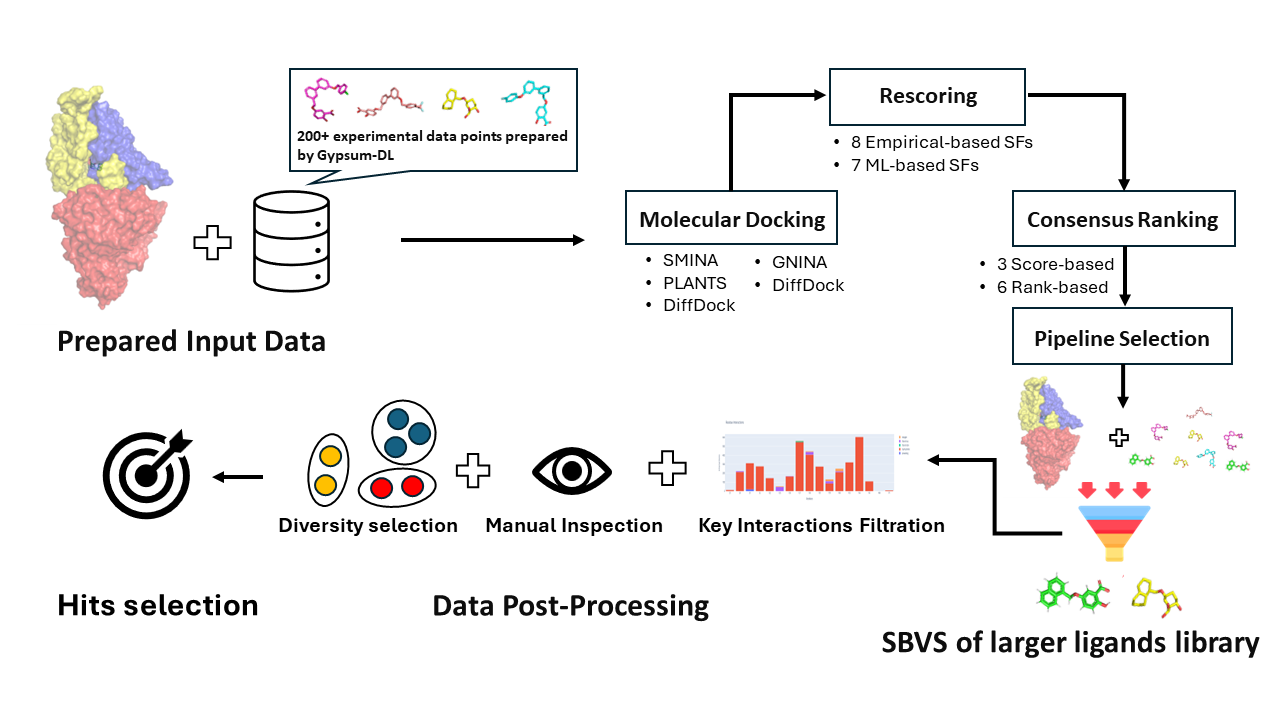
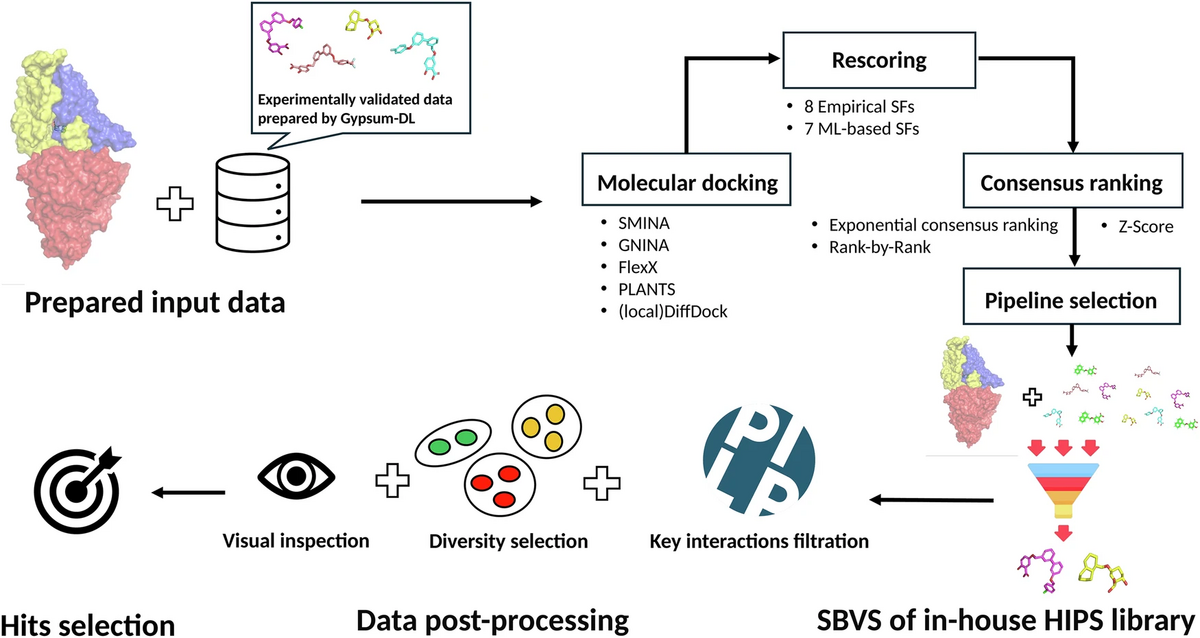
modify hamza's last name and MolDockLab project/paper (#244)

diff --git a/layouts/partials/person.html b/layouts/partials/person.html
@@ -1,5 +1,5 @@
 <article>
-    <h3 id="{{.key}}"><strong>{{ with .prefix }}{{- . }} {{ end }}{{ .name }}</strong></h3>
+    <h3 id="{{.key}}">{{ range .aka }}<span id="{{ . }}"></span>{{ end }}<strong>{{ with .prefix }}{{- . }} {{ end }}{{ or .card_name .name }}</strong></h3>
     {{ if .image }}
     <span class="image right"><img src="{{ .image }}" /></span>
     {{ end }}

diff --git a/content/projects/moldocklab.md b/content/projects/moldocklab.md
@@ -8,14 +8,15 @@ external_resources:
 - name: MolDockLab Repository
   link: https://github.com/volkamerlab/MolDockLab
   icon: github
+publications:
+- agha_npjdrugdiscov_2026
 people:
-- key: hamza.ibrahim
+- key: hamza.agha
 - key: michael.backenkoehler 
 - key: lacour.antoine
 - key: andrea.volkamer
 collaborators:
-- name: Ioulia Antonia Exapicheidou
-  link: https://www.helmholtz-hips.de/en/research/teams/team/drug-design-and-optimisation/
+- name: Youssef Ibrahim
   more: HIPS
 - name: Mostafa Hamed
   link: https://www.helmholtz-hips.de/en/research/teams/team/drug-design-and-optimisation/
@@ -28,8 +29,11 @@ collaborators:
 Finding the optimal docking pipeline for consensus structure-based virtual screening (SBVS) and the diversity nature of protein are challenging. To address this challenge, we introduce MolDockLab, a novel framework designed to identify the most convenient combination of docking tools, scoring functions, and consensus ranking methods tailored for a target of interest. 
 
 <!--more-->
-Consensus structure-based virtual screening (SBVS) has demonstrated high performance in hit identification, as shown in DockM8 [[1]](https://chemrxiv.org/engage/chemrxiv/article-details/669e53ee01103d79c5324046). By leveraging a small data set of approximately 200 molecules, MolDockLab offers a fully automated pipeline. It identifies the most efficient combination of docking tools, scoring functions, and ranking methods for consensus SBVS, which is then applied to larger datasets. The top compounds are further processed to select the most promising candidates, as illustrated in Figure 1.
+Consensus SBVS has shown strong hit-identification performance, as demonstrated by DockM8 [[1]](https://chemrxiv.org/engage/chemrxiv/article-details/669e53ee01103d79c5324046). Building on this idea, MolDockLab systematically explores combinations of five docking engines, 15 scoring functions, and three consensus ranking strategies. Using a calibration set of roughly 200 compounds with known bioactivity, it selects the workflow whose scores correlate best with experiment and applies it to the much larger screening library. Final hit selection from the top 1% integrates protein-ligand interaction profiler (PLIP)-derived interaction fingerprints, structural-diversity assessment, and expert visual inspection, as illustrated in Figure 1.
 
-Energy-coupling factor transporters (ECF-T) are novel and promising antimicrobial targets that mediate micronutrient transport into the cell [[2]](https://doi.org/10.1039/D3CC04738E). As a case study, MolDockLab was deployed for ECF-T hit identification, leading to the discovery of two promising hits in in vitro assays. Testing similar compounds resulted in the identification of nine additional hits, demonstrating the efficacy of MolDockLab.
+In a retrospective evaluation on the epidermal growth factor receptor (EGFR), the selected pipeline reached a Spearman correlation of 0.36 and an enrichment factor at 10% of 1.57, consistent with its calibration performance. It was then applied prospectively to the energy-coupling factor transporters (ECF-T) [[2]](https://doi.org/10.1039/D3CC04738E), a challenging transmembrane antimicrobial target with a cryptic binding site and no co-crystallized ligand, where it reached a correlation of 0.45 and an enrichment of 3.13. Post-processing enabled the in vitro confirmation of two chemically novel ECF-T inhibitors that rival the most potent ECF-T inhibitors reported to date.
 
-{{< figure src="/images/research/moldocklab.png" caption="Figure 1: Overview of MolDockLab Pipeline" >}}
+<figure style="width: 92%; max-width: 1100px; margin: 2.5em auto;">
+  <img src="/images/research/moldocklab.png" alt="Overview of the MolDockLab pipeline" style="width: 100%; border-radius: 0.375em;">
+  <figcaption style="margin-top: 0.75em; text-align: center;">Figure 1: Overview of the MolDockLab pipeline</figcaption>
+</figure>
